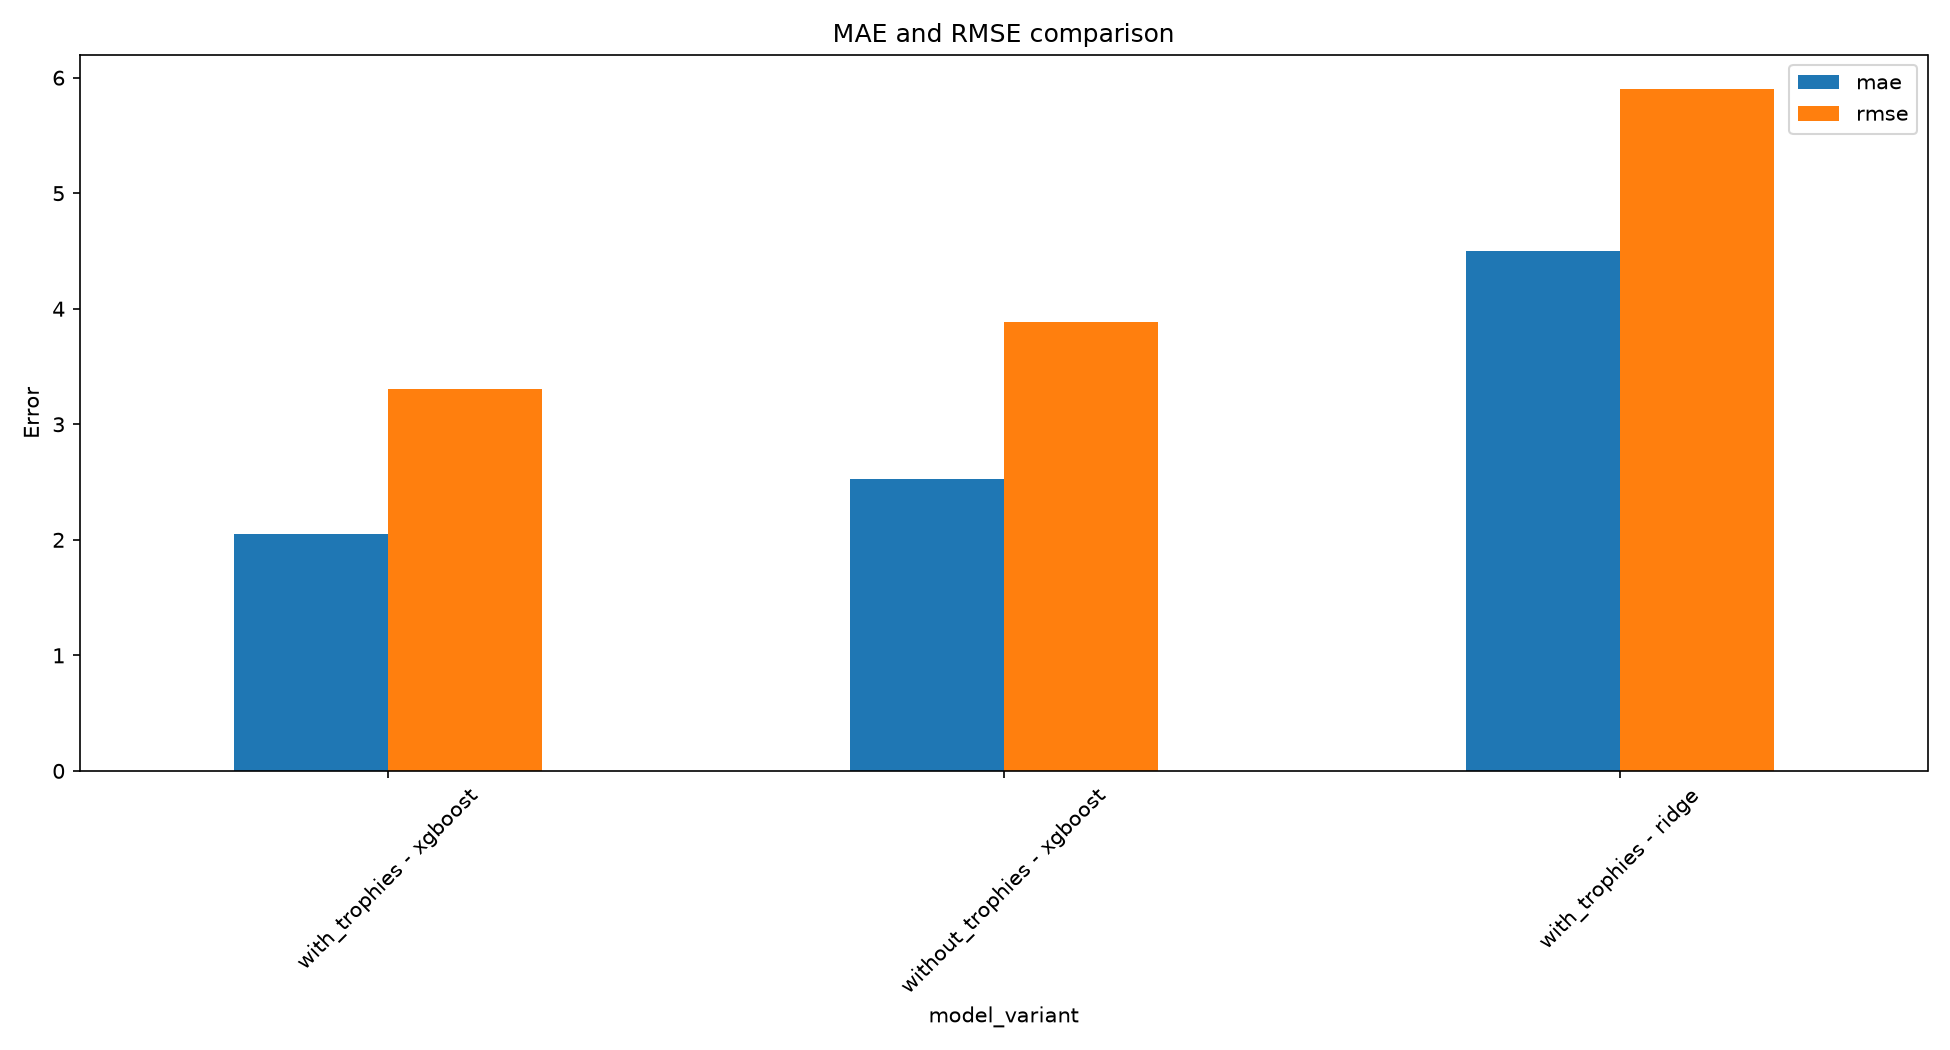
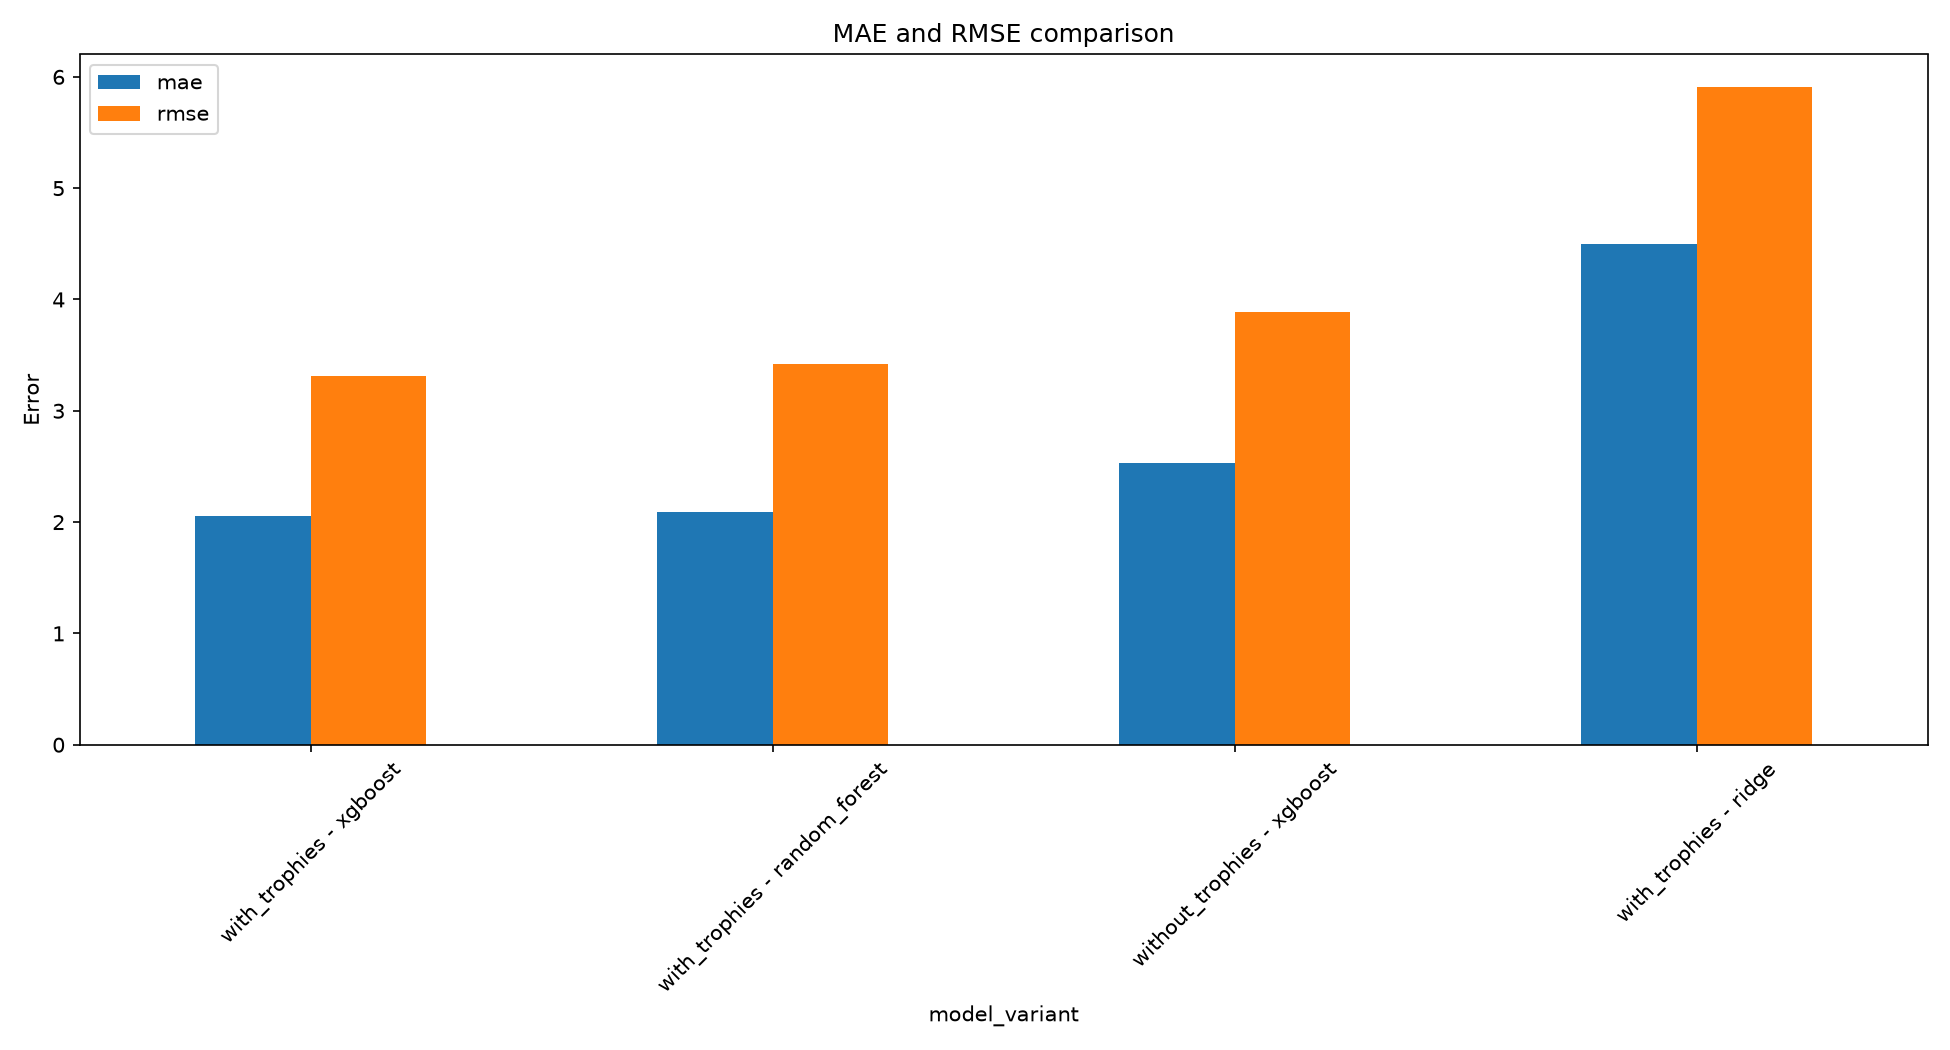
Fix the rf results bug and rf assets added

diff --git a/src/results_p2.py b/src/results_p2.py
@@ -3,6 +3,7 @@ import os
 import json
 import gc
 import pickle
+import traceback
 from pathlib import Path
 from typing import Any, Dict, List, Optional, Tuple
 from urllib.parse import urlparse, unquote
@@ -224,16 +225,35 @@ def _prepare_features(
             columns=existing_to_remove
         )
 
+    # Detected BEFORE numeric coercion: a bool column with no missing
+    # values keeps dtype "bool" straight through pd.to_numeric below, but
+    # a bool column that DOES have missing values is already dtype
+    # "object" by this point (pandas can't hold NaN in a plain bool
+    # column) -- coercion still correctly turns its True/False into
+    # 1.0/0.0, but leaves the actual missing entries as NaN rather than
+    # False, and a dtype=="bool" check done AFTER coercion never finds
+    # that column at all, so those NaNs would otherwise silently ride
+    # through to .predict(). Checking here, before coercion, catches
+    # both cases the same way.
+    bool_like_columns = []
+
+    for column in X.columns:
+
+        if X[column].dtype == bool:
+            bool_like_columns.append(column)
+            continue
+
+        if X[column].dtype == object:
+            non_null = X[column].dropna()
+            if len(non_null) > 0 and non_null.isin([True, False]).all():
+                bool_like_columns.append(column)
+
     X = X.apply(
         pd.to_numeric,
         errors="coerce",
     )
 
-    bool_columns = X.select_dtypes(
-        include=["bool"]
-    ).columns.tolist()
-
-    for column in bool_columns:
+    for column in bool_like_columns:
         X[column] = (
             X[column]
             .fillna(False)
@@ -354,6 +374,42 @@ def _find_mlmodel_dir(root: Path) -> Optional[Path]:
     return matches[0].parent if matches else None
 
 
+def _describe_local_artifacts(uri: str, label: str) -> None:
+    """
+    Resolve a file:// artifact URI to a local path and print what's there,
+    WITH FILE SIZES, before any load is attempted. This runs unconditionally
+    (not just on failure) specifically so a large model.pkl is visible up
+    front -- a bare `except Exception as exc: print(exc)` can print an
+    EMPTY string for some exceptions (MemoryError raised with no message
+    does exactly this), which looks like "it just silently failed" when
+    what actually happened is the file is too big to fit in memory. Seeing
+    the size here removes the guessing.
+    """
+    try:
+        local_root = _file_uri_to_local_path(uri)
+    except Exception as exc:
+        print(f"    Could not resolve {label} ({uri}): {type(exc).__name__}: {exc}")
+        return
+
+    if not local_root.exists():
+        print(f"    {label}: {local_root} (does not exist)")
+        return
+
+    files = sorted(p for p in local_root.rglob("*") if p.is_file())
+
+    if not files:
+        print(f"    {label}: {local_root} (empty)")
+        return
+
+    print(f"    {label}: {local_root}")
+
+    for file_path in files:
+        size_mb = file_path.stat().st_size / (1024 * 1024)
+        print(
+            f"      - {file_path.relative_to(local_root)}: {size_mb:,.1f} MB"
+        )
+
+
 def _load_native_flavor(model_uri_or_path: str, model_key: str) -> Any:
     """
     Load with the flavor-native loader instead of mlflow.pyfunc.load_model,
@@ -391,6 +447,14 @@ def _load_model_from_run(
          strategy 3 found, matching serialization_format="pickle" used
          at training time. Absolute last resort.
 
+    Every exception is printed as "ExceptionType: message" rather than
+    just "message" -- some exceptions (a bare MemoryError in particular)
+    stringify to an EMPTY string, which otherwise looks exactly like a
+    silent, unexplained failure instead of what it actually is. File
+    sizes for whatever's found on disk are also printed up front, before
+    any load is attempted, so a too-large-to-load model.pkl is visible
+    immediately rather than inferred after the fact.
+
     Returns the raw flavor object, never a pyfunc wrapper.
     """
 
@@ -417,6 +481,7 @@ def _load_model_from_run(
         for output in model_outputs:
 
             model_id = output.model_id
+            logged_model = None
 
             try:
                 logged_model = client.get_logged_model(model_id)
@@ -428,6 +493,12 @@ def _load_model_from_run(
             except Exception:
                 pass
 
+            if logged_model is not None:
+                _describe_local_artifacts(
+                    logged_model.artifact_location,
+                    f"logged model {model_id} on disk",
+                )
+
             model_uri = f"models:/{model_id}"
 
             try:
@@ -436,10 +507,16 @@ def _load_model_from_run(
                 print("    \u2713 Loaded via models:/<model_id>")
                 return loaded_model
             except Exception as exc:
-                print(f"    {model_uri} failed: {exc}")
+                print(
+                    f"    {model_uri} failed: "
+                    f"{type(exc).__name__}: {exc}"
+                )
 
     except Exception as exc:
-        print(f"    Could not inspect run outputs: {exc}")
+        print(
+            f"    Could not inspect run outputs: "
+            f"{type(exc).__name__}: {exc}"
+        )
 
     # -------------------------------------------------------------------
     # Strategy 2: legacy runs:/ paths
@@ -455,7 +532,9 @@ def _load_model_from_run(
             print(f"    \u2713 Loaded using fallback: {fallback_uri}")
             return loaded_model
         except Exception as exc:
-            print(f"    Fallback failed: {exc}")
+            print(
+                f"    Fallback failed: {type(exc).__name__}: {exc}"
+            )
 
     # -------------------------------------------------------------------
     # Strategy 3: direct local artifact inspection
@@ -492,14 +571,20 @@ def _load_model_from_run(
                 pass
 
     except Exception as exc:
-        print(f"    Could not enumerate candidate locations: {exc}")
+        print(
+            f"    Could not enumerate candidate locations: "
+            f"{type(exc).__name__}: {exc}"
+        )
 
     for label, uri in candidate_locations:
 
         try:
             local_root = _file_uri_to_local_path(uri)
         except Exception as exc:
-            print(f"    Could not resolve {label} ({uri}): {exc}")
+            print(
+                f"    Could not resolve {label} ({uri}): "
+                f"{type(exc).__name__}: {exc}"
+            )
             continue
 
         print(f"    Inspecting {label} on disk: {local_root}")
@@ -525,18 +610,40 @@ def _load_model_from_run(
 
         print(f"    Found MLmodel at: {mlmodel_dir}")
 
+        pkl_path = mlmodel_dir / "model.pkl"
+
+        if pkl_path.exists():
+            size_mb = pkl_path.stat().st_size / (1024 * 1024)
+            print(f"    model.pkl size: {size_mb:,.1f} MB")
+
+            if size_mb > 1500:
+                print(
+                    "    NOTE: this is a large file. If the next two "
+                    "attempts fail with an EMPTY error message below, "
+                    "that blank is very likely a bare MemoryError -- "
+                    "not the path being wrong -- i.e. this process ran "
+                    "out of available RAM while deserializing it, not "
+                    "a location problem."
+                )
+
         try:
             loaded_model = _load_native_flavor(str(mlmodel_dir), model_key)
             print(f"    \u2713 Loaded directly from local path: {mlmodel_dir}")
             return loaded_model
         except Exception as exc:
-            print(f"    Native flavor load from local path failed: {exc}")
+            print(
+                f"    Native flavor load from local path failed: "
+                f"{type(exc).__name__}: {exc}"
+            )
+            if not str(exc):
+                print(
+                    "      (empty message above; see NOTE on file size, "
+                    "or the exception type itself, for what this means)"
+                )
 
             # ---------------------------------------------------------------
             # Strategy 4: raw pickle, last resort
             # ---------------------------------------------------------------
-
-            pkl_path = mlmodel_dir / "model.pkl"
 
             if pkl_path.exists():
                 try:
@@ -546,14 +653,31 @@ def _load_model_from_run(
                     print("    \u2713 Loaded via raw pickle.load")
                     return loaded_model
                 except Exception as exc2:
-                    print(f"    Raw pickle.load failed: {exc2}")
+                    print(
+                        f"    Raw pickle.load failed: "
+                        f"{type(exc2).__name__}: {exc2}"
+                    )
+                    if not str(exc2):
+                        print(
+                            "      (empty message again -- same "
+                            "underlying cause as the attempt above)"
+                        )
+                    print(
+                        "    Full traceback for this last attempt:"
+                    )
+                    print(
+                        "    "
+                        + traceback.format_exc().replace("\n", "\n    ")
+                    )
 
     raise RuntimeError(
         f"Could not load model from run {run_id}.\n"
         f"Tried: MLflow 3 Logged Model (models:/<model_id>), legacy "
         f"runs:/ paths, and direct local artifact inspection. See the "
-        f"diagnostic output above for the real error and exact paths "
-        f"tried at each step."
+        f"diagnostic output above for the real error, the exception "
+        f"TYPE (not just its message -- some exceptions like a bare "
+        f"MemoryError stringify to nothing), file sizes, and exact "
+        f"paths tried at each step."
     )
 
 
